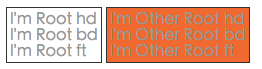
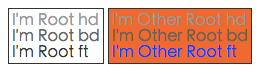
update new post

diff --git a/css/main.css b/css/main.css
@@ -129,6 +129,7 @@ a:visited { color: #a0a; }
   border: 1px solid #ddd;
   background-color: #eef;
   padding: 0 .4em;
+  white-space: pre-line;
 }
 
 .post ul, .post ol {

diff --git a/_posts/2015-03-09-shadow dom & web components.md b/_posts/2015-03-09-shadow dom & web components.md
@@ -167,13 +167,13 @@ tags: [shadow dom,web components]
 			.ft {color:#333;}
 		</style>
 		<div class="hd">
-			<content selected=".hd"></content>
+			<content select=".hd"></content>
 		</div>
 		<div class="bd">
-			<content selected=".bd"></content>
+			<content select=".bd"></content>
 		</div>
 		<div class="ft">
-			<content selected=".ft"></content>
+			<content select=".ft"></content>
 		</div>
 	</template>
 	
@@ -188,8 +188,11 @@ tags: [shadow dom,web components]
 
 可以看到我们定义的三个样式只作用于了`shadow tree`中的节点，这就是**样式封装**。
 
-除此之外，在`shadow dom tree`中，我们还可以配置`root`节点的样式：
+#####向上修改
 
+除此之外，在`shadow dom tree`中，我们还可以配置`root`节点的样式：
+	
+	
 	<!-- 所谓的root -->
 	<div class="root" id="root">
 		<div class="hd">I'm Root hd</div>
@@ -215,13 +218,13 @@ tags: [shadow dom,web components]
 			.ft {color:#333;}
 		</style>
 		<div class="hd">
-			<content selected=".hd"></content>
+			<content select=".hd"></content>
 		</div>
 		<div class="bd">
-			<content selected=".bd"></content>
+			<content select=".bd"></content>
 		</div>
 		<div class="ft">
-			<content selected=".ft"></content>
+			<content select=".ft"></content>
 		</div>
 	</template>
 	<template id="othertemplate">
@@ -232,15 +235,16 @@ tags: [shadow dom,web components]
 			.hd {color:#999;}
 			.bd {color:#666;}
 			.ft {color:#333;}
+			::content .ft {color: blue;}
 		</style>
 		<div class="hd">
-			<content selected=".hd"></content>
+			<content select=".hd"></content>
 		</div>
 		<div class="bd">
-			<content selected=".bd"></content>
+			<content select=".bd"></content>
 		</div>
 		<div class="ft">
-			<content selected=".ft"></content>
+			<content select=".ft"></content>
 		</div>
 	</template>
 	
@@ -257,7 +261,98 @@ tags: [shadow dom,web components]
 
 可以通过`:host`来选中`root`节点，并且可以通过`:host(selecor)`的形式选择不同类型的`root`节点。
 
+另外，也可以通过`::content`方法来选中`<content>`中的元素，并为其定制样式。
+
+
+既然`shadow dom`可以改变`root`元素的样式，那么会不会出现`shadow dom`覆盖了页面中`root`元素的样式的情况呢？
+
+答案是不大可能，再来看代码：
+	
+	<style>
+		.root {border:3px solid #6ff;}
+	</style>
+	<!-- 所谓的root -->
+	<div class="root" id="root">
+		<div class="hd">I'm Root hd</div>
+		<div class="bd">I'm Root bd</div>
+		<div class="ft">I'm Root ft</div>
+	</div>
+	<!-- shadow dom 的结构 -->
+	<template id="template">
+		<style>
+			.hd {color:#999;}
+			.bd {color:#666;}
+			.ft {color:#333;}
+		</style>
+		<div class="hd">
+			<content select=".hd"></content>
+		</div>
+		<div class="bd">
+			<content select=".bd"></content>
+		</div>
+		<div class="ft">
+			<content select=".ft"></content>
+		</div>
+	</template>
+	
+	<script type="text/javascript">
+		var root = document.querySelector('#root').createShadowRoot();
+		var template = document.querySelector('#template');
+		root.appendChild(template.content);
+	</script>
+
+![image](https://raw.githubusercontent.com/tobeyouth/tobeyouth.github.com/master/_postsimage/webcomponents-7.png)
+
+在外部定义的样式，优先级要高于在`shadow dom`中对`root`元素定义的样式。所以级别不太可能会发生`shadow dom`中的样式覆盖了页面本身设置的样式的情况。
+
 #####突破封装
+
+上面刚说了**封装样式**，这里再来说说如何突破封装的样式。
+
+在真实环境中，对样式的要求基本会千奇百怪，所以留出一条可以在外部定义`shadow dom`样式的途径还是很有必要的。
+
+	<style>
+		.root {border:3px solid #6ff;}
+		.root::shadow .hd {color:#f00;}
+	</style>
+	<!-- 所谓的root -->
+	<div class="root" id="root">
+		<div class="hd">I'm Root hd</div>
+		<div class="bd">I'm Root bd</div>
+		<div class="ft">I'm Root ft</div>
+	</div>
+	<!-- shadow dom 的结构 -->
+	<template id="template">
+		<style>
+			:host {padding:3px;display: inline-block;}
+			.hd {color:#999;}
+			.bd {color:#666;}
+			.ft {color:#333;}
+		</style>
+		<div class="hd">
+			<content select=".hd"></content>
+		</div>
+		<div class="bd">
+			<content select=".bd"></content>
+		</div>
+		<div class="ft">
+			<content select=".ft"></content>
+		</div>
+	</template>
+	
+	<script type="text/javascript">
+		var root = document.querySelector('#root').createShadowRoot();
+		var template = document.querySelector('#template');
+		root.appendChild(template.content);
+	</script>
+	
+![image](https://raw.githubusercontent.com/tobeyouth/tobeyouth.github.com/master/_postsimage/webcomponents-8.png)
+
+使用`::shadow`这个虚拟类就可以定位到`shadow dom`，从而定义`shadow dom`的样式。
+除此之外，还可以使用`/deep/`这个分隔符来定义`shadow dom`中的样式。与`::shadow`不同的是，`/deep/`可以递归的定义该`root`下面所有的`shadow dom` —— 也就是说，如果存在`shadow dom`嵌套的情况，那么`::shadow`只能定义当前`root`节点下的一级`shadow dom`，而使用`/deep/`则可以定义该节点下面的所有的`shadow dom`。
+
+除了以上两种方法之外，还可以通过**定义css变量**的方法来实现突破封锁的目的。所谓css变量，就是在外部定义一些样式(类似less变量)，然后在`shadow dom`中引用。
+
 
 
 
